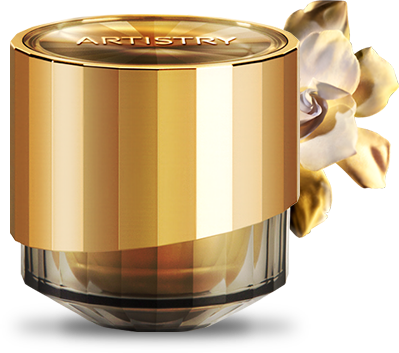
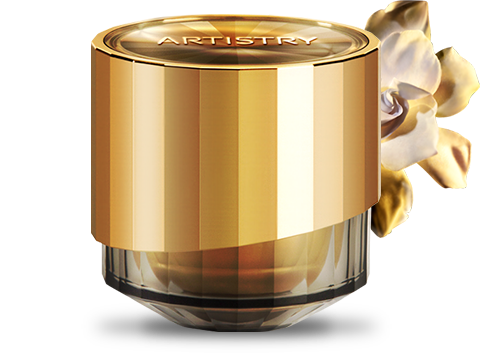
마이그레이션 > 뷰티 > 모바일 버전 수정

diff --git a/_ui/responsive/theme-blue/css/akl-product.css b/_ui/responsive/theme-blue/css/akl-product.css
@@ -500,7 +500,7 @@ iframe {border:0;}
 
 /* 공통 타이틀 */
 .detail-content-area {padding: 0 7%;}
-.com-tit {font-size:44px;font-weight:400;letter-spacing:-2px;line-height:1.3;margin-bottom:18px;}
+.com-tit {font-size:44px;font-weight:400;letter-spacing:-2px;line-height:1.3;margin-top:18px;}
 .com-tit.small {font-size:32px !important;}
 .com-tit.sub-tit{margin-top:35px;}
 .com-tit span {display:inline-block;font-weight:400;font-size:44px;}
@@ -1595,7 +1595,7 @@ dl.amo-txt dd br {line-height:18px}
 .point-wrap.block{margin-top:40px;letter-spacing:-2px}
 
 .t-big.point-wrap .tit{font-size:60px;letter-spacing:-2px;line-height:70px;}
-.t-big.point-wrap .tit sup{font-size:32px;top: -.7em;}
+.t-big.point-wrap .tit sup{font-size:26px;top: -1.2em;}
 .t-big.point-wrap .desc{font-size:18px;}
 .t-small.point-wrap .tit{font-size: 44px;letter-spacing:-2px}
 .t-mini.point-wrap .tit{font-size: 32px;letter-spacing:-2px}
@@ -2246,9 +2246,6 @@ span.txt-next {display:block;}
 .advan-right.ar_4285 .ad-setp-lst dd {padding-right:50px}
 .advan-right.ar_4285 .ad-setp-lst dd strong{font-weight:400}
 
-/* 아이디얼 래디언스 4988_ UV 프로텍트 */
-.visual-area.type02.ideal-uv .v-pro span img{width:auto;}
-
 .triangle.circle-type.uv{padding: 0;display: block;}
 .triangle.circle-type.uv .tit-child{color: #8eb1d3;padding-top:50px;font-size: 18px;font-weight: 400;text-align: center;letter-spacing: 0;}
 .triangle.circle-type.uv .tit-child sup{font-size: 6px !important;top: -.7em;font-weight: 300;}
@@ -2334,7 +2331,7 @@ span.txt-next {display:block;}
 /* 스킨케어 */
 .visual-area.type02.indicator p.v-txt {padding:15px 0 0}
 .visual-area.type02.supreme_lx .v-pro.ar4438 {margin-top:230px;}
-.visual-area.type02.supreme_lx .v-pro.ar4439 {margin-left:-50px;}
+/*.visual-area.type02.supreme_lx .v-pro.ar4439 {margin-left:-50px;}*/
 .visual-area.type02.ultra-lifting.ar4223 {height:995px;background: #f8f8f8 url('../images/akl_product/beauty/bg_youth_xtend_ultra_lifting_AR4223.png') no-repeat center center;}
 .visual-area.type02.hydrav.ar4919 {height:1030px;background: #f8f8f8 url('../images/akl_product/beauty/bg_hydrav_refreshing_ar4919.png') no-repeat top center;}
 .txt-info-visual.ar1616 .v-etc {margin:20px 0 0}
@@ -3269,8 +3266,9 @@ ol.decimal-num li ol li ol {padding:0 15px;}
 	.txt-info-visual .v-tit{padding: 18px 0 0;}
 	.advantage-area.btm-line{padding:25px 0;}	
 	
-	/* 베이스 메이크업 공통 */
-	.base-makeup .visual-area .v-logo.beauty img{height:13px;}
+	.t-big.point-wrap .tit sup{font-size:16px;top: -0.8em;}
+	
+	/* 베이스 메이크업 공통 */	
 	.foundation-cont-area .ade-photo span img{width:auto;}
 	
 	/* 스무싱 파운데이션 */	
@@ -3284,7 +3282,7 @@ ol.decimal-num li ol li ol {padding:0 15px;}
 	.color-tip-lst.loose li > .color-tip img{width:inherit;}
 	
 	/* 립메이크업 공통 */
-	.point-makeup .visual-area .v-logo.beauty img{height:13px;}
+	.point-makeup .visual-area .v-logo.beauty img{height:20px;}
 	.point-makeup .visual-area.lipgloss .v-logo{width:auto;padding:38px 0 0;}
 	.point-makeup .visual-area.lipgloss .v-pro span img {width:auto;height:auto;}
 	.point-makeup .visual-area.lipgloss .v-logo.beauty img{width:auto;height:20px;}
@@ -3293,6 +3291,13 @@ ol.decimal-num li ol li ol {padding:0 15px;}
 	/* 메이크업3 */
 	.point-wrap .desc.top{font-size:20px;}
 	.studio-thum-area .txt{min-height:inherit;}
+	
+	/* 패치 */
+	.ad-setp-lst.ar7227 dt{font-size:26px !important;}
+	.ad-setp-lst.ar7227 dd{margin-top:12px;font-size:14px;line-height:1.3 !important;}
+	.radience-cont-area .ad-setp-lst dt.ar7227, .radience-cont-area .ad-setp-lst dd.ar7227{font-size:14px;line-height:1.3 !important;}
+	
+	
 	/* 스튜디오 뉴욕 */
 	.bana-studio p {display: block;padding:170px 50px 0;text-align: center;font-size: 22px;line-height: 1.5;color: #d51b60;}
 	
@@ -3366,7 +3371,8 @@ ol.decimal-num li ol li ol {padding:0 15px;}
 	
 	.skin-care .visual-area .v-logo{padding: 34px 0 0;}
 	.skin-care .visual-area .v-logo img {height:38px;}
-	.skin-care .visual-area.special-care .v-logo img {height:15px;}
+	.skin-care .visual-area .v-logo img.logo-small, .visual-area .v-logo.beauty img.logo-small, .v-logo.beauty img.logo-small{height:20px;}	
+	.skin-care.skin-type2 .visual-area .v-logo img {height:20px;}
 	
 	.skin-care .visual-area .txt-info-visual .v-logo-txt{font-size:18px;}
 	.skin-care .visual-area .txt-info-visual .v-pro span img{width:auto;}	
@@ -3836,7 +3842,7 @@ ol.decimal-num li ol li ol {padding:0 15px;}
 	.akl .com-tit em{font-size:20px;}
 
 	.visual-area.type02.supreme_lx .v-pro.ar4438 {margin-top:230px;}
-	.visual-area.type02.supreme_lx .v-pro.ar4439 {margin-left:-50px;}
+	/*.visual-area.type02.supreme_lx .v-pro.ar4439 {margin-left:-50px;}*/
 	.visual-area.type02.supreme_lx .v-pro.ar4439 span img {width:inherit;height:inherit;}
 	
 	
@@ -4438,7 +4444,7 @@ ol.decimal-num li ol li ol {padding:0 15px;}
    
    /* 메이크업 1,2,3 립스틱 */
    .visual-area.point-makeup03 .txt-info-visual .v-logo-txt, .visual-area.point-makeup02 .txt-info-visual .v-logo-txt{font-size: 18px;font-weight: 300;}
-   .visual-area.point-makeup03 .v-logo.beauty img, .visual-area.point-makeup02 .v-logo.beauty img{height:16px;}
+   .visual-area.point-makeup03 .v-logo.beauty img, .visual-area.point-makeup02 .v-logo.beauty img, .visual-area.point-makeup01 .v-logo.beauty img{height:20px;}
    .visual-area.point-makeup03 .v-pro span img, .visual-area.point-makeup02 .v-pro span img{width:inherit;}
    
    /* 스무싱 파운데이션 */
@@ -4459,6 +4465,9 @@ ol.decimal-num li ol li ol {padding:0 15px;}
 	.point-wrap .desc.top{margin-top:0;}
 	.point-wrap .desc.top{font-size:20px;}
 	
+	.detail-content-area .advantage-area:first-child .t-big.point-wrap{margin-top:0;}
+	
+	.hydra-cont-area
 }
 
 
@@ -4480,10 +4489,12 @@ ol.decimal-num li ol li ol {padding:0 15px;}
 	.polymer.vita .two em{font-size:13px;}
 	
 	.polymer.vita .two{top:45%;font-size:12px;line-height:1.2;letter-spacing:-1.3px;}
-	
+		
 	.v-pro span img{width:inherit;}
 	/*.visual-area .v-logo img{height:18px;}*/
 	.bath-body .visual-area .v-logo img{height:auto !important;}
+	
+	.t-big.point-wrap .tit sup{font-size: 16px;top: -1em;font-weight: 400;}
 	
 	/* 리스토어 울트라좀 4523 */
 	.ade-photo .reposom-wrap em.one{top: 24px;left: 70%;}
@@ -4498,8 +4509,10 @@ ol.decimal-num li ol li ol {padding:0 15px;}
 	.triangle.men-type .tit br{display:block;}
 	.triangle.men-type span.comment02{left:8%}
 	.triangle.men-type span.comment03{margin-right:0}
-	.triangle.lx-tech span.comment02{left: 4%;}
-	.triangle.lx-tech span.comment03{right:5%}
+	
+	.triangle.lx-tech span.comment02{width: 140px;left: 0;margin-top:-35px;}
+	.triangle.lx-tech span.comment03{width: 140px;right: 0;margin-top:-35px;}
+	
 	.triangle.lx-tech span.comment03 .linght-beige br{display:block;}	
 	.triangle.ingre-three .tit .linght-beige{font-size:16px}
 	.beam-balance .txt-left, .beam-balance .txt-right{font-size:14px}
@@ -4527,6 +4540,9 @@ ol.decimal-num li ol li ol {padding:0 15px;}
 	/* 하이드라 */
 	.system-lst3 ul li{float:none;width:100%;text-align:center;}
 	
+	/* 슈프림 */
+	.supreme-area .system-lst3.sp-lx ul li{float: left;width: 33.333%;}
+	
 	
 	/* 포인트 메이크업 립 */
 	.point-makeup .visual-area .v-logo{width:auto;padding:38px 0 0;}
@@ -4535,7 +4551,7 @@ ol.decimal-num li ol li ol {padding:0 15px;}
 	.point-makeup .v-pro{margin-top: 34px;}
 	
 	.point-makeup .visual-area.lipgloss .v-pro span img {width:inherit;height:auto;}
-	.point-makeup .visual-area.lipgloss .v-logo.beauty img{width:auto;height:13px;}
+	.point-makeup .visual-area.lipgloss .v-logo.beauty img{width:auto;height:20px;}
 	
 	/* 아티스트리 뉴욕 에디션 */
 	.stick-thum-list ul li .studio-thum-area div{float:left;width:50%;}
@@ -4744,6 +4760,7 @@ ol.decimal-num li ol li ol {padding:0 15px;}
 	
 	.visual-area.type02.zone-patch .v-logo.beauty img{height:15px;}
 	
+
 	/* 7227 존패치 */
 	.photo-zone-patch{margin-bottom:50px;}
 	.photo-zone-patch .ade-photo img{}
@@ -4763,8 +4780,6 @@ ol.decimal-num li ol li ol {padding:0 15px;}
 	.technology-step .program-list .program-img{display:none;clear:both;}		
 	.triangle.men-type span.comment02{left:2%;margin-top: -20px;}
 	.triangle.men-type span.comment03{margin-top: -20px;}
-	.triangle.lx-tech span.comment02{left:0;margin-top: -32px;}
-	.triangle.lx-tech span.comment03{right:0;margin-top: -32px;}
 	.triangle br{line-height:18px !important;}
 	.triangle.circle-type .comment01, .triangle.circle-type .comment02, .triangle.circle-type .comment03{font-size:12px;}
 	.triangle.circle-type .comment01{padding-top:13px}
@@ -4776,7 +4791,9 @@ ol.decimal-num li ol li ol {padding:0 15px;}
 	.ade-photo .reposom-wrap em.one{top: 24px;left: 64%;}
 	.ade-photo .reposom-wrap em.two{bottom: 29px;left: 73%;}
 	
-	
+	/* 4439 */
+	.triangle.lx-tech span.comment02{width:90px !important;left: 0;margin-top:-35px;}
+	.triangle.lx-tech span.comment03{width:90px !important;right: 0;margin-top:-35px;}
 			
 	/* 베이스 메이크업 */	
 	.triangle.circle-type .tit-child{font-size:14px;}

diff --git a/_ui/responsive/html/product/beauty/skincare/special-care/AR_1325_10_Cream_Makeup_Remover.html b/_ui/responsive/html/product/beauty/skincare/special-care/AR_1325_10_Cream_Makeup_Remover.html
@@ -57,11 +57,11 @@
 								<div class="accordion-collapse-wrapper">
 
 									<!-- 제품 상세영역 시작 -->
-									<div class="product-body-view skin-care">
+									<div class="product-body-view skin-care skin-type2">
 
 										<!-- 비주얼 영역 -->
 										<div class="visual-area type02 special-care">
-											<div class="v-logo beauty"><img src="/_ui/responsive/theme-blue/images/akl_product/common/logo_artistry_special_care.png" alt="ARTISTRY 로고"></div>
+											<div class="v-logo beauty"><img src="/_ui/responsive/theme-blue/images/akl_product/common/logo_artistry_special_care.png" alt="ARTISTRY 로고" class="logo-small"></div>
 											<div class="txt-info-visual">
 												<div class="v-logo-txt">메이크업 잔여물을 부드럽고 촉촉하게 제거</div>
 												<div class="v-tit">크림 <span class="blue"> 클렌저</span></div>

diff --git a/_ui/responsive/html/product/beauty/makeup_03/AR_1631_10_Foundation_Sponge_Brush.html b/_ui/responsive/html/product/beauty/makeup_03/AR_1631_10_Foundation_Sponge_Brush.html
@@ -61,7 +61,7 @@
 										
 										<!-- 비주얼 영역 -->
 										<div class="visual-area type02 tools">
-											<div class="v-logo beauty"><img src="/_ui/responsive/theme-blue/images/akl_product/common/logo_artistry_special_care.png" alt="ARTISTRY TM 로고"></div>
+											<div class="v-logo beauty"><img src="/_ui/responsive/theme-blue/images/akl_product/common/logo_artistry_special_care.png" alt="ARTISTRY TM 로고" class="logo-small"></div>
 											<div class="txt-info-visual">
 												<div class="v-logo-txt gray">파운데이션을 피부에 고르고 매끈하게 밀착되도록 도와주는 브러시 기능과 <br>빈틈없이 촘촘하게 커버해주는 스펀지의 효과가 동시에 적용된 멀티 기능 브러시</div>
 												<div class="v-tit">아티스트리 <span>파운데이션 스펀지 브러시</span></div>

diff --git a/_ui/responsive/html/product/beauty/makeup_01/AR_1235_10_Exact_Fit_Cushion_Foundation_Hydra_Touch_SPF35PA_21.html b/_ui/responsive/html/product/beauty/makeup_01/AR_1235_10_Exact_Fit_Cushion_Foundation_Hydra_Touch_SPF35PA_21.html
@@ -62,7 +62,7 @@
 										
 										<!-- 비주얼 영역 -->
 										<div class="visual-area type02 foundation_hydra_touch">
-											<div class="v-logo beauty"><img src="/_ui/responsive/theme-blue/images/akl_product/common/logo_artistry_special_care.png" alt="ARTISTRY 로고"></div>
+											<div class="v-logo beauty"><img src="/_ui/responsive/theme-blue/images/akl_product/common/logo_artistry_special_care.png" alt="ARTISTRY 로고" class="logo-small"></div>
 											<div class="txt-info-visual">
 												<div class="v-logo-txt gray06">보습성분 50% 이상 함유로  촉촉하게 빛나는 실크 물광 피부</div>
 												<div class="v-tit white">아티스트리 이그젝트 핏<br><span class="yellow03">쿠션 파운데이션 하이드라 터치<br>SPF35 PA++ (21) - 본품</span></div>

diff --git a/_ui/responsive/html/product/beauty/makeup_01/AR_1236_10_Exact_Fit_Cushion_Foundation_Hydra_Touch_SPF35PA_23.html b/_ui/responsive/html/product/beauty/makeup_01/AR_1236_10_Exact_Fit_Cushion_Foundation_Hydra_Touch_SPF35PA_23.html
@@ -62,7 +62,7 @@
 										
 										<!-- 비주얼 영역 -->
 										<div class="visual-area type02 foundation_hydra_touch">
-											<div class="v-logo beauty"><img src="/_ui/responsive/theme-blue/images/akl_product/common/logo_artistry_special_care.png" alt="ARTISTRY 로고"></div>
+											<div class="v-logo beauty"><img src="/_ui/responsive/theme-blue/images/akl_product/common/logo_artistry_special_care.png" alt="ARTISTRY 로고" class="logo-small"></div>
 											<div class="txt-info-visual">
 												<div class="v-logo-txt gray06">보습성분 50% 이상 함유로  촉촉하게 빛나는 실크 물광 피부</div>
 												<div class="v-tit white">아티스트리 이그젝트 핏<br><span class="yellow03">쿠션 파운데이션 하이드라 터치<br>SPF35 PA++ (23) - 본품</span></div>

diff --git a/_ui/responsive/html/product/beauty/makeup_01/AR_1237_10_Exact_Fit_Cushion_Foundation_Hydra_Touch_SPF35PA_21_Refill.html b/_ui/responsive/html/product/beauty/makeup_01/AR_1237_10_Exact_Fit_Cushion_Foundation_Hydra_Touch_SPF35PA_21_Refill.html
@@ -61,7 +61,7 @@
 										
 										<!-- 비주얼 영역 -->
 										<div class="visual-area type02 foundation_hydra_touch">
-											<div class="v-logo beauty"><img src="/_ui/responsive/theme-blue/images/akl_product/common/logo_artistry_special_care.png" alt="ARTISTRY 로고"></div>
+											<div class="v-logo beauty"><img src="/_ui/responsive/theme-blue/images/akl_product/common/logo_artistry_special_care.png" alt="ARTISTRY 로고" class="logo-small"></div>
 											<div class="txt-info-visual">
 												<div class="v-logo-txt gray06">보습성분 50% 이상 함유로  촉촉하게 빛나는 실크 물광 피부</div>
 												<div class="v-tit white">아티스트리 이그젝트 핏<br><span class="yellow03">쿠션 파운데이션 하이드라 터치<br>SPF35 PA++ (21) - 리필</span></div>

diff --git a/_ui/responsive/html/product/beauty/makeup_01/AR_1238_10_Exact_Fit_Cushion_Foundation_Hydra_Touch_SPF35PA_23_Refill.html b/_ui/responsive/html/product/beauty/makeup_01/AR_1238_10_Exact_Fit_Cushion_Foundation_Hydra_Touch_SPF35PA_23_Refill.html
@@ -62,7 +62,7 @@
 										
 										<!-- 비주얼 영역 -->
 										<div class="visual-area type02 foundation_hydra_touch">
-											<div class="v-logo beauty"><img src="/_ui/responsive/theme-blue/images/akl_product/common/logo_artistry_special_care.png" alt="ARTISTRY 로고"></div>
+											<div class="v-logo beauty"><img src="/_ui/responsive/theme-blue/images/akl_product/common/logo_artistry_special_care.png" alt="ARTISTRY 로고" class="logo-small"></div>
 											<div class="txt-info-visual">
 												<div class="v-logo-txt gray06">보습성분 50% 이상 함유로  촉촉하게 빛나는 실크 물광 피부</div>
 												<div class="v-tit white">아티스트리 이그젝트 핏<br><span class="yellow03">쿠션 파운데이션 하이드라 터치<br>SPF35 PA++ (23) - 리필</span></div>

diff --git a/_ui/responsive/html/product/beauty/makeup_03/AR_1506_10_artistry_signature_color_triple_color_lightup_lipgloss.html b/_ui/responsive/html/product/beauty/makeup_03/AR_1506_10_artistry_signature_color_triple_color_lightup_lipgloss.html
@@ -62,7 +62,7 @@
 										
 										<!-- 비주얼 영역 -->
 										<div class="visual-area type02 lipgloss-pop">
-											<div class="v-logo beauty"><img src="/_ui/responsive/theme-blue/images/akl_product/common/logo_artistry_makeup.png" alt="ARTISTRY 로고"></div>
+											<div class="v-logo beauty"><img src="/_ui/responsive/theme-blue/images/akl_product/common/logo_artistry_makeup.png" alt="ARTISTRY 로고" class="logo-small"></div>
 											<div class="txt-info-visual">
 												<div class="v-logo-txt">제품 하나로 달콤한 3가지 컬러를 누리는 오렌지 계열의 팝시클 라잇업 립글로스 </div>
 												<div class="v-tit">아티스트리 시그니처 컬러<br><span class="red03">트리플 컬러 라잇업 립글로스 팝시클</span></div>

diff --git a/_ui/responsive/html/product/beauty/makeup_01/AR_1249_10_signature_color_longwearing_liquid_liner.html b/_ui/responsive/html/product/beauty/makeup_01/AR_1249_10_signature_color_longwearing_liquid_liner.html
@@ -62,7 +62,7 @@
 										
 										<!-- 비주얼 영역 -->
 										<div class="visual-area type02 point-makeup01">
-											<div class="v-logo beauty"><img src="/_ui/responsive/theme-blue/images/akl_product/common/logo_artistry_special_care.png" alt="ARTISTRY TM 로고"></div>
+											<div class="v-logo beauty"><img src="/_ui/responsive/theme-blue/images/akl_product/common/logo_artistry_special_care.png" alt="ARTISTRY TM 로고" class="logo-small"></div>
 											<div class="txt-info-visual">
 												<div class="v-logo-txt purple05">더욱 쉽고 정교하게 완성하는 매혹적인 아이라이너</div>
 												<div class="v-tit purple05">아티스트리 시그니처 컬러 롱웨어링 <br><span class="white">리퀴드 라이너 - 블랙</span></div>

diff --git a/_ui/responsive/html/product/beauty/makeup_02/AR_6523_10_Eyebrow_Brush.html b/_ui/responsive/html/product/beauty/makeup_02/AR_6523_10_Eyebrow_Brush.html
@@ -61,7 +61,7 @@
 										
 										<!-- 비주얼 영역 -->
 										<div class="visual-area type02 tools">
-											<div class="v-logo beauty"><img src="/_ui/responsive/theme-blue/images/akl_product/common/logo_artistry_special_care.png" alt="ARTISTRY TM 로고"></div>
+											<div class="v-logo beauty"><img src="/_ui/responsive/theme-blue/images/akl_product/common/logo_artistry_special_care.png" alt="ARTISTRY TM 로고" class="logo-small"></div>
 											<div class="txt-info-visual">
 												<div class="v-logo-txt gray">앵글각도 브러시와 스크류 브러시의 일체형으로 자연스럽게 눈썹 메이크업이 가능한 아이브로우 브러시</div>
 												<div class="v-tit">아티스트리 <br><span>아이브로우 브러시</span></div>

diff --git a/_ui/responsive/html/product/beauty/makeup_01/AR_1094_10_signature_color_eyeshadow_quad_refill_pink_chocolate.html b/_ui/responsive/html/product/beauty/makeup_01/AR_1094_10_signature_color_eyeshadow_quad_refill_pink_chocolate.html
@@ -61,7 +61,7 @@
 										
 										<!-- 비주얼 영역 -->
 										<div class="visual-area type02 point-makeup02">
-											<div class="v-logo beauty"><img src="/_ui/responsive/theme-blue/images/akl_product/common/logo_artistry_special_care.png" alt="ARTISTRY TM 로고"></div>
+											<div class="v-logo beauty"><img src="/_ui/responsive/theme-blue/images/akl_product/common/logo_artistry_special_care.png" alt="ARTISTRY TM 로고" class="logo-small"></div>
 											<div class="txt-info-visual">
 												<div class="v-logo-txt">기분에 따라 다양하게 연출할 수 있는 다채로운 아이 컬러 메이크업</div>
 												<div class="v-tit">시그니처 컬러 아이섀도 쿼드<br><span class="orange03">핑크 초콜렛 (리필)</span></div>

diff --git a/_ui/responsive/html/product/beauty/makeup_02/AR_6518_10_Blusher_Brush.html b/_ui/responsive/html/product/beauty/makeup_02/AR_6518_10_Blusher_Brush.html
@@ -61,7 +61,7 @@
 										
 										<!-- 비주얼 영역 -->
 										<div class="visual-area type02 tools">
-											<div class="v-logo beauty"><img src="/_ui/responsive/theme-blue/images/akl_product/common/logo_artistry_special_care.png" alt="ARTISTRY TM 로고"></div>
+											<div class="v-logo beauty"><img src="/_ui/responsive/theme-blue/images/akl_product/common/logo_artistry_special_care.png" alt="ARTISTRY TM 로고" class="logo-small"></div>
 											<div class="txt-info-visual">
 												<div class="v-logo-txt gray">블러셔와 하이라이터를 밀착력 있게 표현해 주며 컬러가 부드럽고 자연스럽게 발색 되도록 디자인된 브러시</div>
 												<div class="v-tit">아티스트리 <span>블러셔 브러시</span></div>
